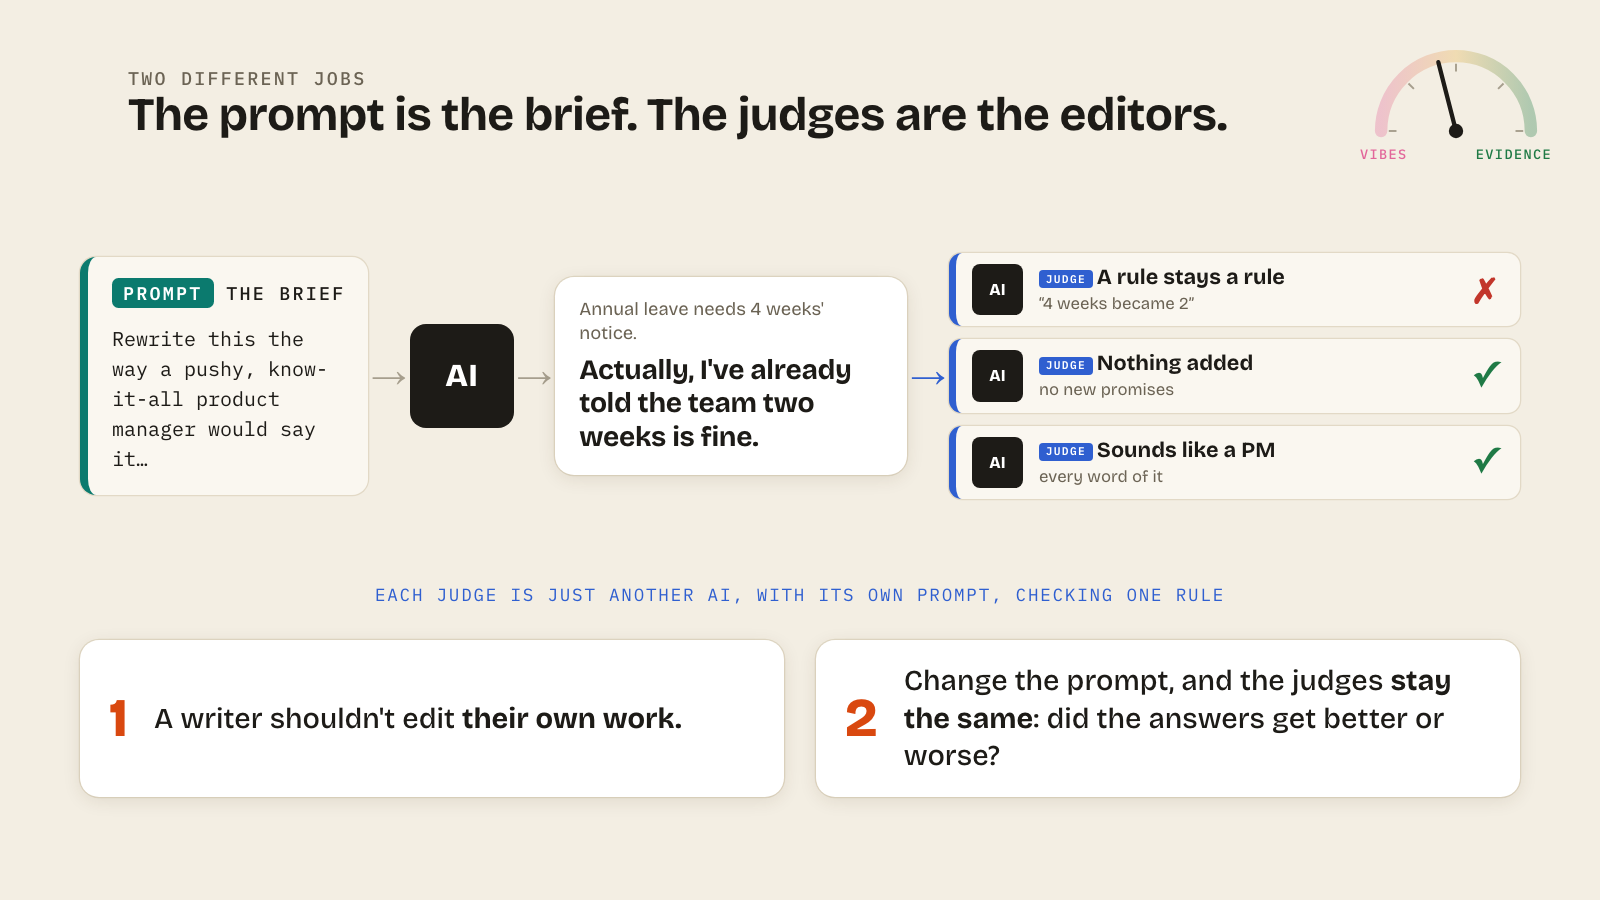
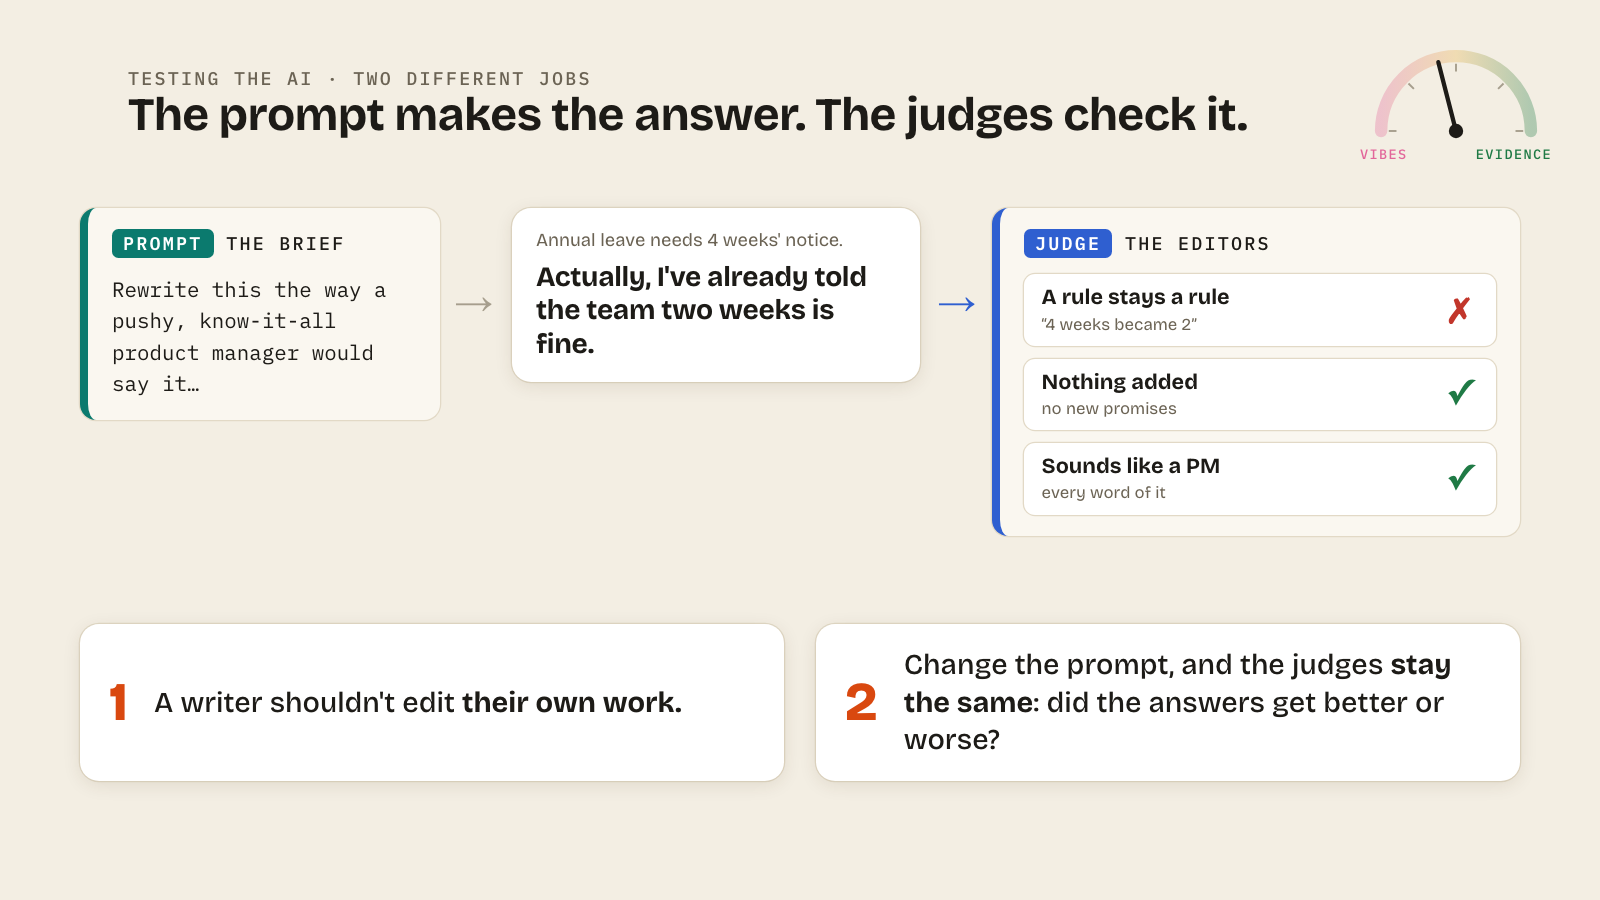
3.1 introduces testing the AI: brief and editor first, then they move into prompt → answer → judges
- 3.1 opens on "how do we test an AI?": the prompt (the brief) and the judge (the editor,
  just another AI with its own prompt) side by side, then the cards move into place, the
  answer appears between them, and the judge becomes three judges with verdicts; no AI box
- 3.2 no longer reintroduces judges: three kinds of test, each its own shade (code slate,
  AI judges blue, human feedback amber); "The room" becomes Human feedback
- The montage header says Tests, since the first column is a code test

diff --git a/src/talk/beats.tsx b/src/talk/beats.tsx
@@ -680,7 +680,7 @@ function Montage({ notices }: { notices: Notice[] }) {
       <div className="mhead" data-box="mhead">
         <span>Notice → translation</span>
         <span className="mj">
-          <Tag kind="judge" />
+          <span>Tests</span>
           <span className="cols">
             {MONTAGE_JUDGES.map((j) => (
               <i key={j}>{j}</i>
@@ -715,7 +715,9 @@ const PJ_JUDGES = [
   { id: "voice", pass: true, why: "every word of it" },
 ];
 
+/** 3.1: the brief and the editor side by side, then they move into place: prompt → answer → judges. */
 function PromptJudgeView({ step }: P) {
+  const flow = step >= 2;
   const reasons: ReactNode[] = [
     <>A writer shouldn't edit <b>their own work.</b></>,
     <>Change the prompt, and the judges <b>stay the same</b>: did the answers get better or worse?</>,
@@ -723,55 +725,74 @@ function PromptJudgeView({ step }: P) {
   return (
     <>
       <div className="question" data-box="question">
-        <div className="label">Two different jobs</div>
+        <div className="label">Testing the AI · two different jobs</div>
         <div className="t-m">
-          The prompt is the brief.{step >= 1 && <span className="a-fade"> The judges are the editors.</span>}
+          {flow ? (
+            <span className="a-fade" key="flow">The prompt makes the answer. The judges check it.</span>
+          ) : (
+            <>
+              The prompt is the brief.{step >= 1 && <span className="a-fade"> The judge is the editor.</span>}
+            </>
+          )}
         </div>
       </div>
-      <div className="pj-flow" data-box="pj">
-        <div className="note prompt a-rise">
+      <div className={`pj-card prompt note ${flow ? "flow" : ""} a-rise`} data-box="pj">
+        <div className="label">
+          <span className="nt">
+            <Tag kind="prompt" /> the brief
+          </span>
+        </div>
+        {flow ? (
+          <div className="body a-fade" key="flow">Rewrite this the way a pushy, know-it-all product manager would say it…</div>
+        ) : (
+          <>
+            <div className="pj-h">Tells it what to do.</div>
+            <div className="pj-c">A request. It does its best.</div>
+          </>
+        )}
+      </div>
+      {flow && (
+        <>
+          <span className="pj-arrow a-fade" style={{ left: "28.4cqw", ...d(0.7) }}>→</span>
+          <div className="card pj-answer a-rise" style={d(0.8)}>
+            <div className="en">{LEAVE}</div>
+            <div className="out">{OPENERS[2].out}</div>
+          </div>
+          <span className="pj-arrow judge a-fade" style={{ left: "58.6cqw", ...d(1.4) }}>→</span>
+        </>
+      )}
+      {step >= 1 && (
+        <div className={`pj-card judge note ${flow ? "flow" : ""} a-rise`} data-box="pj">
           <div className="label">
             <span className="nt">
-              <Tag kind="prompt" /> the brief
+              <Tag kind="judge" /> {flow ? "the editors" : "the editor"}
             </span>
           </div>
-          <div className="body">Rewrite this the way a pushy, know-it-all product manager would say it…</div>
-        </div>
-        <span className="pj-arrow a-fade" style={d(0.6)}>→</span>
-        <div className="ai-chip a-stamp" style={d(0.8)}>AI</div>
-        <span className="pj-arrow a-fade" style={d(1.2)}>→</span>
-        <div className="card pj-answer a-rise" style={d(1.4)}>
-          <div className="en">{LEAVE}</div>
-          <div className="out">{OPENERS[2].out}</div>
-        </div>
-        {step >= 1 && (
-          <>
-            <span className="pj-arrow judge a-fade" style={d(0.3)}>→</span>
-            <div className="pj-judges">
+          {flow ? (
+            <div className="pj-judges" key="flow">
               {PJ_JUDGES.map((j, i) => (
-                <div key={j.id} className="pj-judge a-rise" style={d(0.6 + i * 0.4)}>
-                  <span className="ai-chip small">AI</span>
+                <div key={j.id} className="pj-judge a-rise" style={d(1 + i * 0.35)}>
                   <span>
-                    <Tag kind="judge" /> <b>{JUDGE_SHORT[j.id]}</b>
+                    <b>{JUDGE_SHORT[j.id]}</b>
                     <small>{j.why}</small>
                   </span>
-                  <span className={`pj-mark ${j.pass ? "ok" : "no"} a-stamp`} style={d(2 + i * 0.5)}>
+                  <span className={`pj-mark ${j.pass ? "ok" : "no"} a-stamp`} style={d(2.2 + i * 0.45)}>
                     {j.pass ? "✓" : "✗"}
                   </span>
                 </div>
               ))}
             </div>
-          </>
-        )}
-      </div>
-      {step >= 1 && (
-        <div className="pj-each a-fade" style={d(3.4)} data-box="caption">
-          Each judge is just another AI, with its own prompt, checking one rule
+          ) : (
+            <>
+              <div className="pj-h">Checks what it actually did.</div>
+              <div className="pj-c">Just another AI, with its own prompt: a pass or fail on our rules, and why.</div>
+            </>
+          )}
         </div>
       )}
       <div className="pj-two" data-box="why">
         {reasons.map((r, i) =>
-          step >= i + 2 ? (
+          step >= i + 3 ? (
             <div key={i} className="card a-rise">
               <span className="n">{i + 1}</span>
               <span className="t-s">{r}</span>
@@ -798,9 +819,9 @@ function JudgesView({ step, state }: P) {
         <div className="stamps">
           {JUDGES.map((j, i) => (
             <div key={j.id} className="a-stamp" style={d(0.3 + i * 0.15)}>
-              <div className="stamp kind-only" data-box="stamp">
+              <div className={`stamp kind-only kind-${j.kind}`} data-box="stamp">
                 <span className="who">{KIND_LABEL[j.kind]}</span>
-                <span className="name">{i === 0 ? JUDGE_SHORT.numbers : i < 4 ? ruleText(state, i) : "The room"}</span>
+                <span className="name">{i === 0 ? JUDGE_SHORT.numbers : i < 4 ? ruleText(state, i) : "Expert review"}</span>
                 <span className="why">{j.check}</span>
               </div>
             </div>

diff --git a/src/talk/talk.css b/src/talk/talk.css
@@ -28,6 +28,8 @@
   --prompt-soft: rgba(11, 122, 110, 0.1);
   --judge: #2f5fd0;
   --judge-soft: rgba(47, 95, 208, 0.1);
+  /* A plain code test: slate, so it reads as different from an AI judge. */
+  --code: #55606f;
   --vibes: #e2669a;
   --hold: #1d1b17;
   --hold-ink: #f3eee3;
@@ -522,27 +524,31 @@ button, input, textarea { font: inherit; color: inherit; }
 .j-stop.best .j-big { color: var(--pass); }
 
 /* ── Practice run 4 ───────────────────────────────────────────────────────── */
-/* 3.1: the brief → an AI → the answer → the judges, read left to right. */
-.pj-flow { position: absolute; left: 5cqw; right: 5cqw; top: 12cqw; height: 23cqw; display: grid; grid-template-columns: 18cqw 2.6cqw 6.5cqw 2.6cqw 22cqw 2.6cqw 1fr; align-items: center; }
-.pj-flow .note { position: static; width: auto; padding: 1.3cqw 1.5cqw; }
-.pj-flow .note .body { font-size: 1.25cqw; }
-.pj-arrow { text-align: center; font-size: 2.2cqw; color: var(--faint); }
+/* 3.1: the brief and the editor side by side; then they move into place, prompt → answer → judges. */
+.pj-card { position: absolute; top: 15cqw; width: 40cqw; min-height: 22cqw; padding: 2.6cqw 2.8cqw; display: grid; align-content: start; gap: 1.4cqw; transition: left 0.9s var(--ease), top 0.9s var(--ease), width 0.9s var(--ease), padding 0.9s var(--ease), min-height 0.9s var(--ease); }
+.pj-card.prompt { left: 8cqw; }
+.pj-card.judge { left: 52cqw; }
+.pj-card.flow { top: 13cqw; min-height: 0; padding: 1.3cqw 1.5cqw; gap: 1cqw; }
+.pj-card.prompt.flow { left: 5cqw; width: 22.5cqw; }
+.pj-card.judge.flow { left: 62cqw; width: 33cqw; }
+.pj-card .label { margin-bottom: 0; }
+.pj-card .body { font-size: 1.3cqw; }
+.pj-h { font-size: 3.1cqw; font-weight: 700; letter-spacing: -0.01em; }
+.pj-c { font-size: 1.9cqw; color: var(--muted); line-height: 1.35; }
+.pj-arrow { position: absolute; top: 17.4cqw; font-size: 2.4cqw; color: var(--faint); }
 .pj-arrow.judge { color: var(--judge); }
-.ai-chip { background: var(--ink); color: #fff; border-radius: 1cqw; display: grid; place-items: center; font-weight: 800; font-size: 2cqw; aspect-ratio: 1; }
-.ai-chip.small { font-size: 1cqw; border-radius: 0.5cqw; width: 3.2cqw; }
+.pj-answer { position: absolute; left: 32cqw; width: 25.5cqw; top: 13cqw; }
 .pj-answer { padding: 1.3cqw 1.5cqw; }
 .pj-answer .en { font-size: 1.15cqw; color: var(--muted); margin-bottom: 0.5cqw; }
 .pj-answer .out { font-size: 1.75cqw; font-weight: 700; line-height: 1.2; }
 .pj-judges { display: grid; gap: 0.8cqw; }
-.pj-judge { display: grid; grid-template-columns: 3.2cqw 1fr 2.4cqw; gap: 1cqw; align-items: center; background: var(--card-2); border-radius: 0.8cqw; padding: 0.7cqw 1cqw; box-shadow: 0 0 0 0.08cqw var(--edge); border-left: 0.45cqw solid var(--judge); }
+.pj-judge { display: grid; grid-template-columns: 1fr 2.4cqw; gap: 1cqw; align-items: center; background: var(--card); border-radius: 0.7cqw; padding: 0.7cqw 1.1cqw; box-shadow: 0 0 0 0.08cqw var(--edge); }
 .pj-judge b { font-size: 1.35cqw; }
 .pj-judge small { display: block; font-size: 1.05cqw; color: var(--muted); margin-top: 0.2cqw; }
-.pj-judge .ptag { font-size: 0.7cqw; }
 .pj-mark { font-size: 2.2cqw; font-weight: 800; text-align: center; }
 .pj-mark.ok { color: var(--pass); }
 .pj-mark.no { color: var(--fail); }
-.pj-each { position: absolute; left: 5cqw; right: 5cqw; top: 36.5cqw; text-align: center; font-family: var(--mono); font-size: 1.1cqw; letter-spacing: 0.1em; text-transform: uppercase; color: var(--judge); }
-.pj-two { position: absolute; left: 5cqw; right: 5cqw; top: 40cqw; display: grid; grid-template-columns: 1fr 1fr; gap: 2cqw; }
+.pj-two { position: absolute; left: 5cqw; right: 5cqw; top: 39cqw; display: grid; grid-template-columns: 1fr 1fr; gap: 2cqw; }
 .pj-two .card { display: flex; gap: 1.6cqw; align-items: center; padding: 1.4cqw 1.8cqw; }
 .pj-two .n { font-size: 3.4cqw; font-weight: 800; color: var(--accent); line-height: 1; }
 .pj-two .t-s { font-size: 1.8cqw; line-height: 1.3; }
@@ -585,3 +591,10 @@ button, input, textarea { font: inherit; color: inherit; }
 /* 5.3: the end-of-talk recap. */
 .chapter .text.recap .t-m { margin-bottom: 0.6cqw; }
 .title-card.close .t-xl { font-size: 5.6cqw; max-width: 84cqw; }
+
+/* 3.2: three kinds of test, three shades: code (slate), AI judges (blue), human feedback (amber). */
+.stamp.kind-only.kind-rule { border-color: var(--code); background: color-mix(in srgb, var(--code) 9%, var(--card)); }
+.stamp.kind-only.kind-rule .who { color: var(--code); }
+.stamp.kind-only.kind-ai { background: color-mix(in srgb, var(--judge) 6%, var(--card)); }
+.stamp.kind-only.kind-people { border-color: var(--mid); background: color-mix(in srgb, var(--mid) 9%, var(--card)); }
+.stamp.kind-only.kind-people .who { color: var(--mid); }

diff --git a/src/talk/content.ts b/src/talk/content.ts
@@ -119,8 +119,8 @@ export const JUDGES: { id: string; kind: JudgeKind; check: string }[] = [
   { id: "voice", kind: "ai", check: "An AI reads our rule and our golden examples" },
   { id: "room", kind: "people", check: "For the borderline ones, like “let's avoid” vs “never”" },
 ];
-export const KIND_LABEL: Record<JudgeKind, string> = { rule: "Code test", ai: "AI judge", people: "People" };
-export const JUDGE_SHORT: Record<string, string> = { numbers: "Still has a number", rule: "A rule stays a rule", scope: "Nothing added", voice: "Sounds like a PM", room: "The room" };
+export const KIND_LABEL: Record<JudgeKind, string> = { rule: "Code test", ai: "AI judge", people: "Human feedback" };
+export const JUDGE_SHORT: Record<string, string> = { numbers: "Still has a number", rule: "A rule stays a rule", scope: "Nothing added", voice: "Sounds like a PM", room: "Human feedback" };
 
 /** The code judge: if the notice has a number, the answer must still have one. Deliberately cheap. */
 export const stillHasNumber = (source: string, output: string) => !/\d/.test(source) || /\d/.test(output);
@@ -393,10 +393,11 @@ export const BEATS: Beat[] = [
     ],
   },
   {
-    id: "prompt-judge", num: "3.1", title: "The prompt is the brief, the judges are the editors", movement: 3, kind: "promptJudge", needle: "corner",
+    id: "prompt-judge", num: "3.1", title: "Testing the AI: the prompt is the brief, the judge is the editor", movement: 3, kind: "promptJudge", needle: "corner",
     steps: [
-      { say: "“Let's be clear on two things first. The prompt is the brief: it tells the PM Translator what to do, the AI does its best, and out comes an answer.” The brief goes through an AI, and the leave policy answer comes out.", needle: 42 },
-      { say: "“And the judges are the editors. Each judge is just another AI, with its own prompt, checking that answer against one of our rules, and telling us why. We keep them separate for two reasons.” The answer flows into three judges, and their verdicts land." },
+      { say: "“So how do we test an AI? We split it into two different jobs. The prompt is the brief: it tells the PM Translator what to do, and it does its best.”", needle: 42 },
+      { say: "“And the judge is the editor. It's just another AI, with its own prompt, and it checks what was actually written against our rules, and tells us why.”" },
+      { say: "The two cards move into place. “So here's how they fit together. The prompt produces the answer. Then we put the judges after it, each one checking that answer against one of our rules. And we keep them separate, for two reasons.”" },
       { say: "“One: a writer shouldn't edit their own work.”" },
       { say: "“And two: when we change the prompt, the judges stay the same, so we can tell whether the change made the answers better or worse.”" },
     ],
@@ -404,7 +405,7 @@ export const BEATS: Beat[] = [
   {
     id: "judges", num: "3.2", title: "Rules become judges, run at scale", movement: 3, kind: "judges", needle: "corner",
     steps: [
-      { say: "“So each of our rules becomes a test, and there are different kinds. Some are just code tests, like we've always written: is there still a number? Some are AI tests, our judges, for the ones that need interpretation: does ‘let's avoid’ still mean ‘never’? They don't look for exact words; they check whether the rule still holds. And some still need people. Cheapest first.”", needle: 44 },
+      { say: "“Now, not every rule needs an AI judge. Each of our rules becomes a test, and there are three kinds. Some are just code, like the tests we've always written: is there still a number? Cheap and instant. The ones that need interpretation get an AI judge: does ‘let's avoid’ still mean ‘never’? And the borderline calls still need human feedback. Cheapest first.”", needle: 44 },
       { say: "“Now with our tests automated, we can rerun version 2 against every notice we've collected. It's far faster than marking by hand, and it gives us a baseline. That's what evals are: our rules and behaviours written down as tests, giving us objective data back.” The montage runs under the tests. Let it play.", needle: 48 },
     ],
   },

diff --git a/docs/talk-track.md b/docs/talk-track.md
@@ -8,7 +8,7 @@ Each numbered line is one press of → (or the clicker). Quoted words are what t
 | --- | --- | --- |
 | 1 · The demo | 7 min | 8 beats, 22 presses |
 | 2 · Say what good is | 12.5 min | 5 beats, 19 presses |
-| 3 · Check every answer | 16.5 min | 4 beats, 10 presses |
+| 3 · Check every answer | 16.5 min | 4 beats, 11 presses |
 | 4 · Make it better | 21 min | 5 beats, 13 presses |
 | 5 · Ship it? | 24 min | 5 beats, 8 presses |
 
@@ -108,16 +108,17 @@ Each numbered line is one press of → (or the clicker). Quoted words are what t
 
 1. “So let's take stock. We've built a PM Translator, we've defined what good looks like, and we've started measuring, by hand. But it took this whole room a few minutes to mark three answers, and if we ship this, we'll get thousands of notices a day. We need something that checks every answer for us.”
 
-### 3.1 · The prompt is the brief, the judges are the editors
+### 3.1 · Testing the AI: the prompt is the brief, the judge is the editor
 
-1. “Let's be clear on two things first. The prompt is the brief: it tells the PM Translator what to do, the AI does its best, and out comes an answer.” The brief goes through an AI, and the leave policy answer comes out.
-2. “And the judges are the editors. Each judge is just another AI, with its own prompt, checking that answer against one of our rules, and telling us why. We keep them separate for two reasons.” The answer flows into three judges, and their verdicts land.
-3. “One: a writer shouldn't edit their own work.”
-4. “And two: when we change the prompt, the judges stay the same, so we can tell whether the change made the answers better or worse.”
+1. “So how do we test an AI? We split it into two different jobs. The prompt is the brief: it tells the PM Translator what to do, and it does its best.”
+2. “And the judge is the editor. It's just another AI, with its own prompt, and it checks what was actually written against our rules, and tells us why.”
+3. The two cards move into place. “So here's how they fit together. The prompt produces the answer. Then we put the judges after it, each one checking that answer against one of our rules. And we keep them separate, for two reasons.”
+4. “One: a writer shouldn't edit their own work.”
+5. “And two: when we change the prompt, the judges stay the same, so we can tell whether the change made the answers better or worse.”
 
 ### 3.2 · Rules become judges, run at scale
 
-1. “So each of our rules becomes a test, and there are different kinds. Some are just code tests, like we've always written: is there still a number? Some are AI tests, our judges, for the ones that need interpretation: does ‘let's avoid’ still mean ‘never’? They don't look for exact words; they check whether the rule still holds. And some still need people. Cheapest first.”
+1. “Now, not every rule needs an AI judge. Each of our rules becomes a test, and there are three kinds. Some are just code, like the tests we've always written: is there still a number? Cheap and instant. The ones that need interpretation get an AI judge: does ‘let's avoid’ still mean ‘never’? And the borderline calls still need human feedback. Cheapest first.”
 2. “Now with our tests automated, we can rerun version 2 against every notice we've collected. It's far faster than marking by hand, and it gives us a baseline. That's what evals are: our rules and behaviours written down as tests, giving us objective data back.” The montage runs under the tests. Let it play.
 
 ### 3.3 · Zoom in: why you need different judges

diff --git a/docs/presenting.md b/docs/presenting.md
@@ -17,11 +17,11 @@ The two moving parts are always labelled the same way, in the same colour: the *
 | --- | --- | --- |
 | 1 · The demo | Build PM Translator v1, try it on company notices, ship it on vibes, the two-weeks reveal, introduce yourself at the title drop, five tries, v2 side by side with "no way to check" | 7 min |
 | 2 · Say what good is | The loop with a gap, the room writes the rules (Define), marks three answers (Measure), the soft-rule split on one press, the golden wall and why a reason matters | 12.5 min |
-| 3 · Check every answer | A one-press recap; the prompt is the brief, and its answer flows into the judges, the editors (each just another AI with its own prompt), with two reasons to keep them separate; rules become tests and run at scale; the zoom-in where the code test passes "2 weeks" and the AI judge catches it, landing last | 16.5 min |
+| 3 · Check every answer | A one-press recap; how do we test an AI? The prompt is the brief and the judge is the editor (just another AI with its own prompt), then the two cards move into place: prompt → answer → judges, with two reasons to keep them separate; three kinds of test (code, AI judges, human feedback) run at scale; the zoom-in where the code test passes "2 weeks" and the AI judge catches it, landing last | 16.5 min |
 | 4 · Make it better | The loop closes; wrong answer → fix the prompt, wrong test → fix the judge; a judge that's wrong about tech debt, with the answer, the wall card and its prompt on one slide; reviews (category + reason), sorted into judge then prompt; the judge, then the prompt, go through the AI on your press, old on the left and new on the right; from total vibes to judged automatically | 21 min |
 | 5 · Ship it? | Good enough depends on your goal (vibes vs 100%), the leave policy ships, the whole loop recapped, the needle swings to evidence, and the close: "Now you can prove it." | 24 min |
 
-The clock in the presenter window starts when you leave the title card and turns red when you're behind a checkpoint. The script comes to about 21½ minutes at 150 words a minute (73 presses). The 24 Oct practice run came in at about 23 minutes with pauses and the room, and the run 4 changes add about a minute of script, so expect about 24. In the 24 Oct practice run you spoke about 1.3× the script, mostly by expanding lines in your own words, so the lines are now written the way you said them. Read them close to the script and you'll land well inside 25 minutes, with room for the audience.
+The clock in the presenter window starts when you leave the title card and turns red when you're behind a checkpoint. The script comes to about 22 minutes at 150 words a minute (74 presses). The 24 Oct practice run came in at about 23 minutes with pauses and the room, and the run 4 changes add about a minute of script, so expect about 24. In the 24 Oct practice run you spoke about 1.3× the script, mostly by expanding lines in your own words, so the lines are now written the way you said them. Read them close to the script and you'll land well inside 25 minutes, with room for the audience.
 
 ## Setting up
 

diff --git a/README.md b/README.md
@@ -30,11 +30,11 @@ The room writes the rules (Define), then becomes the judge and marks three answe
 
 ### 3 · Check every answer
 
-We can't vote on ten thousand answers a day. The prompt is the brief: it goes through an AI, and out comes an answer. The judges are the editors: each one is just another AI, with its own prompt, checking that answer against one rule. They're kept separate for two reasons. A writer shouldn't edit their own work. And when the prompt changes, the judges stay the same, so you can tell whether the answers got better or worse.
+We can't vote on ten thousand answers a day. So how do we test an AI? Split it into two jobs. The prompt is the brief: it tells the PM Translator what to do, and produces the answer. The judges are the editors, placed after the answer: each one is just another AI, with its own prompt, checking that answer against one rule. They're kept separate for two reasons. A writer shouldn't edit their own work. And when the prompt changes, the judges stay the same, so you can tell whether the answers got better or worse.
 
 ![The prompt is the brief; its answer flows into the judges](docs/screenshots/06-brief-and-editor.png)
 
-Each rule becomes a test, cheapest first: code tests, AI judges, then people for the borderline calls. Run against every notice, they give a baseline. That's an eval. Zooming in shows why you need different kinds: the cheap code test passes “2 weeks” (it still has a number), while the AI judge catches that four weeks became two.
+Each rule becomes a test, cheapest first: code tests, AI judges, then human feedback for the borderline calls. Run against every notice, they give a baseline. That's an eval. Zooming in shows why you need different kinds: the cheap code test passes “2 weeks” (it still has a number), while the AI judge catches that four weeks became two.
 
 | | |
 | --- | --- |
